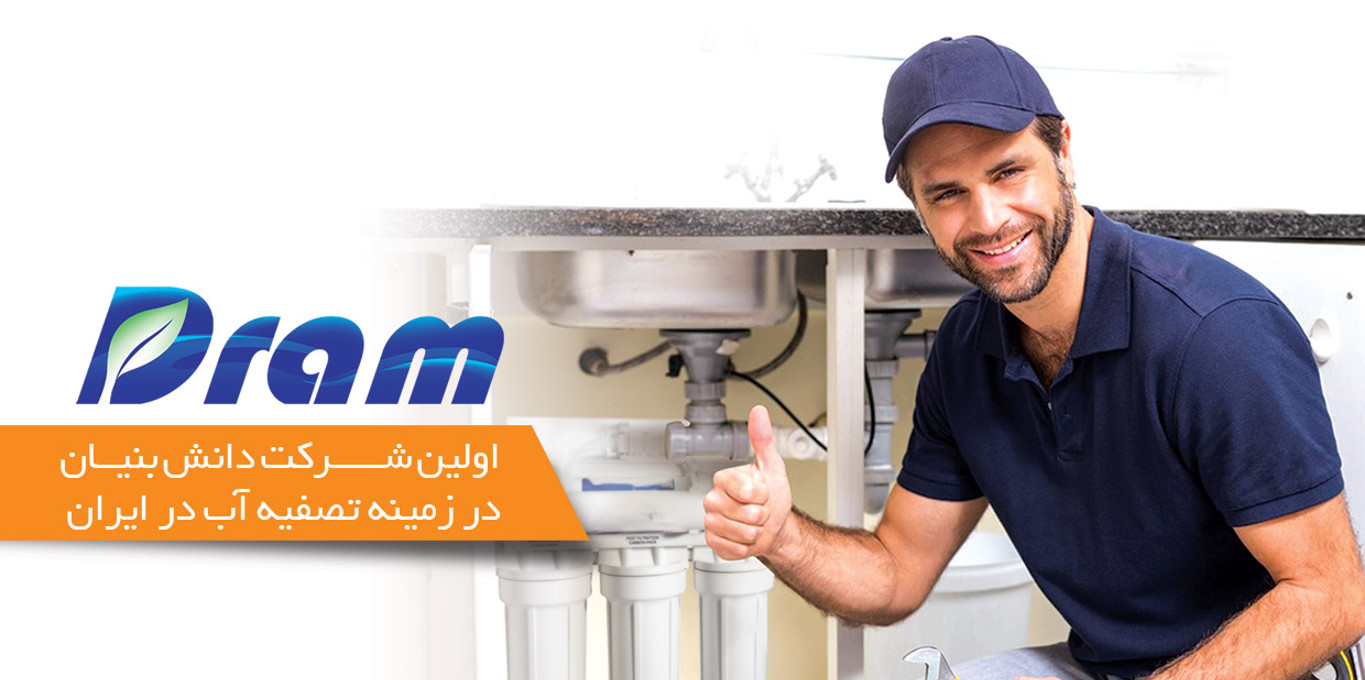
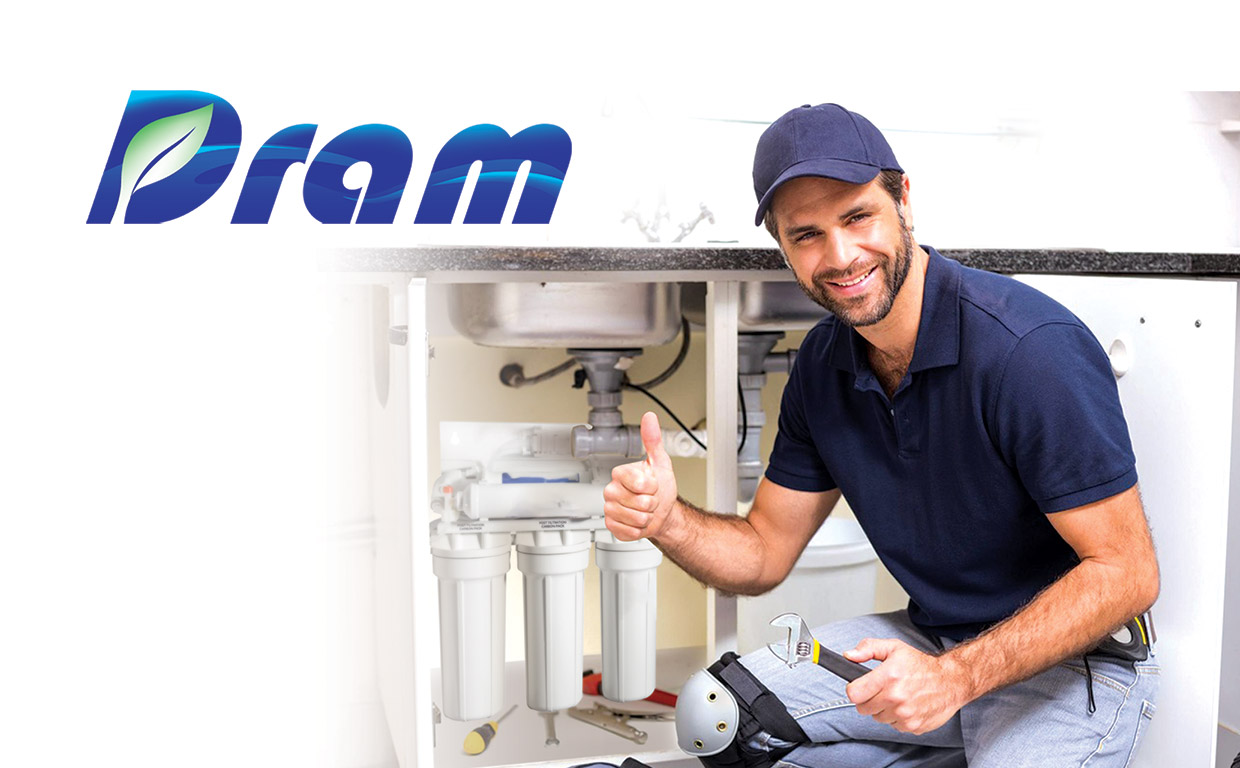
change header page

diff --git a/govarab/static/css/layout_fa.css b/govarab/static/css/layout_fa.css
@@ -86,7 +86,7 @@ Home (Header) Section
 }
 .home:after {clear: both;}
 .header{
-	padding-top: 21%;
+	padding-top: 33%;
 	text-align: center;
 }
 .header .logo{
@@ -149,7 +149,7 @@ a.header-down-arrow {
 	display: inline-block;
 	font-size: 40px;
 	font-weight: 400;
-	margin-top: 100px;
+	margin-top: 40px;
 	-webkit-transform: rotate(-90deg);
 	-moz-transform: rotate(-90deg);
 	-ms-transform: rotate(-90deg);

diff --git a/govarab/static/css/layout_en.css b/govarab/static/css/layout_en.css
@@ -54,7 +54,7 @@ Home (Header) Section
 }
 .home:after {clear: both;}
 .header{
-	padding-top: 17%;
+	padding-top: 33%;
 	text-align: center;
 }
 .header .logo{
@@ -116,7 +116,7 @@ a.header-down-arrow {
 	display: inline-block;
 	font-size: 40px;
 	font-weight: 400;
-	margin-top: 100px;
+	margin-top: 40px;
 
 	-webkit-transform: rotate(-90deg);
 	-moz-transform: rotate(-90deg);
